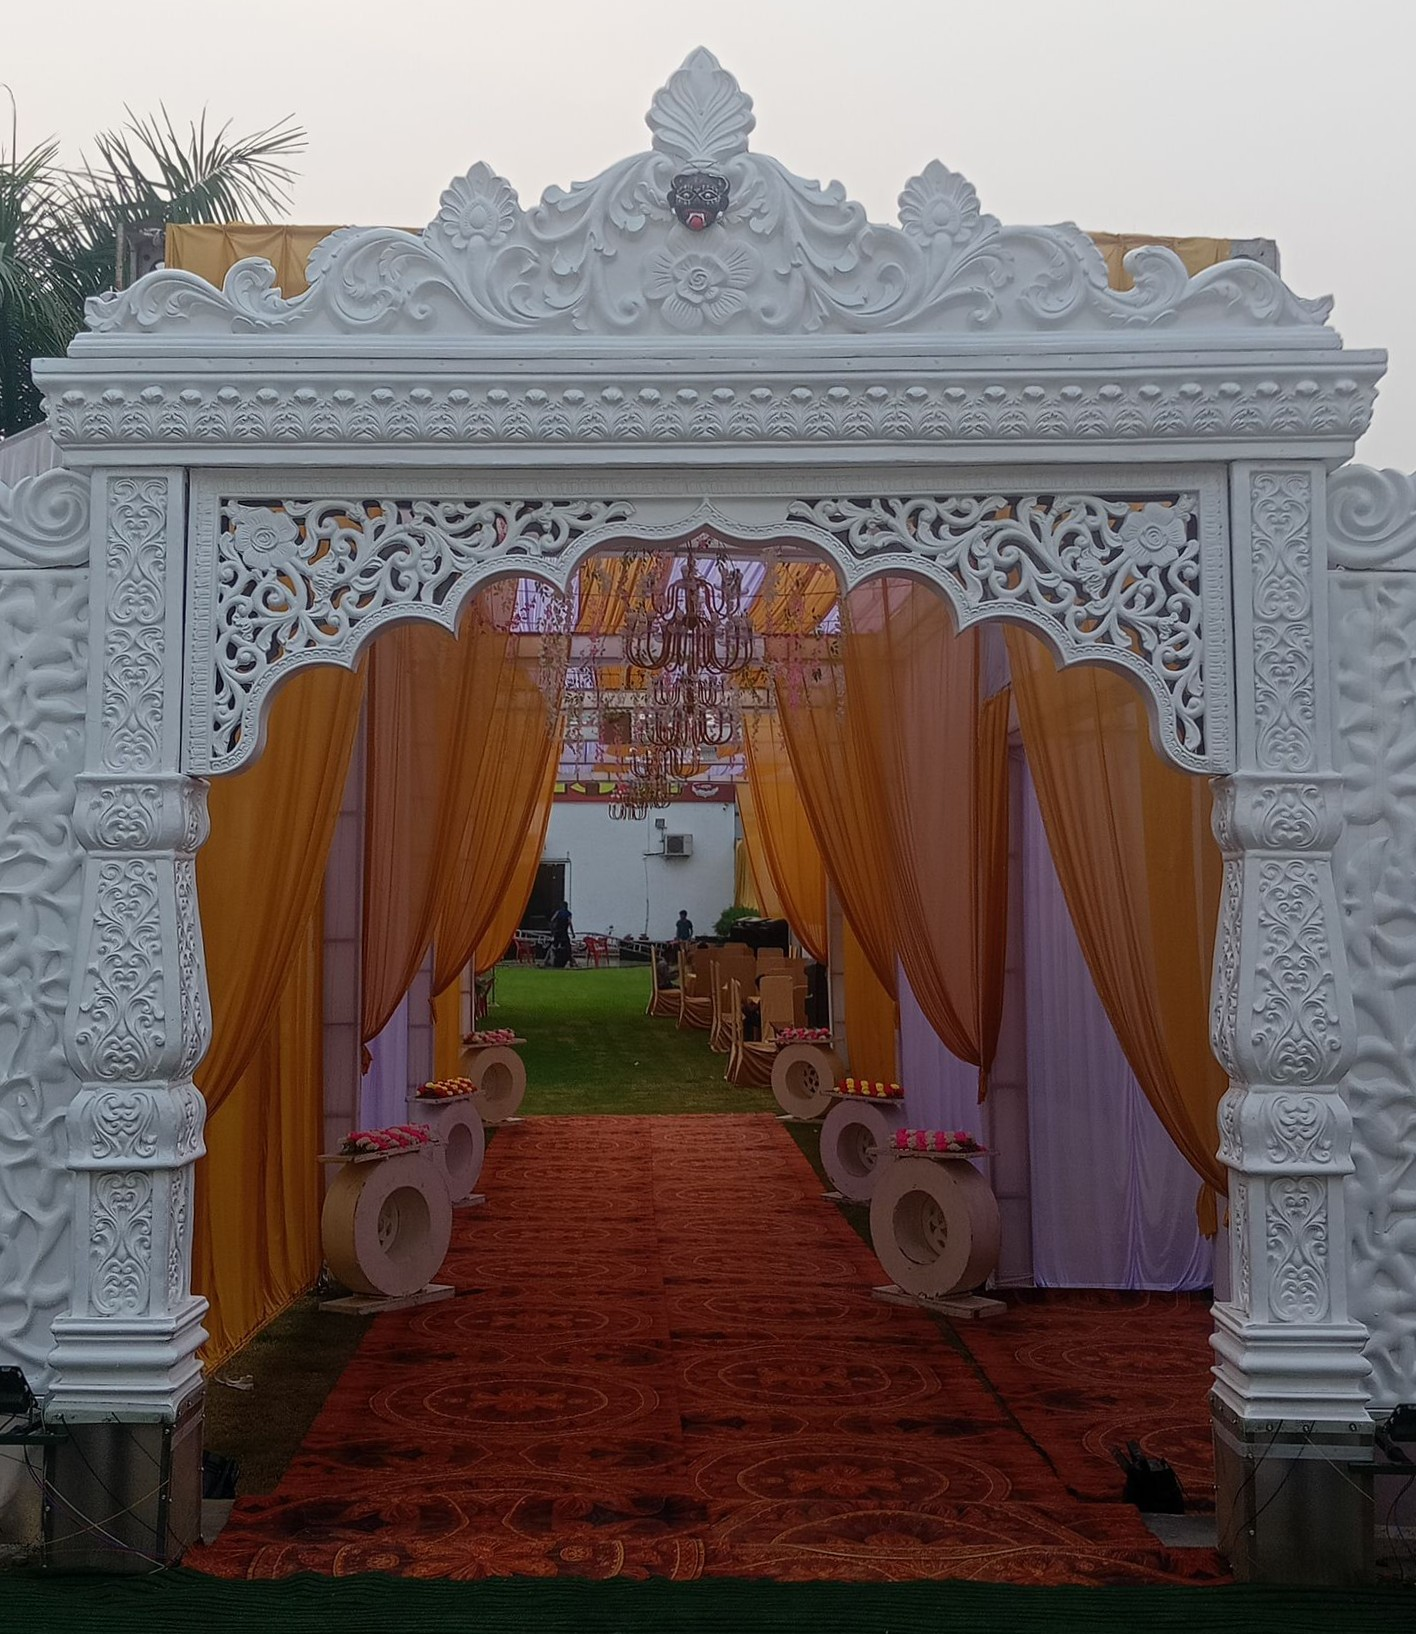
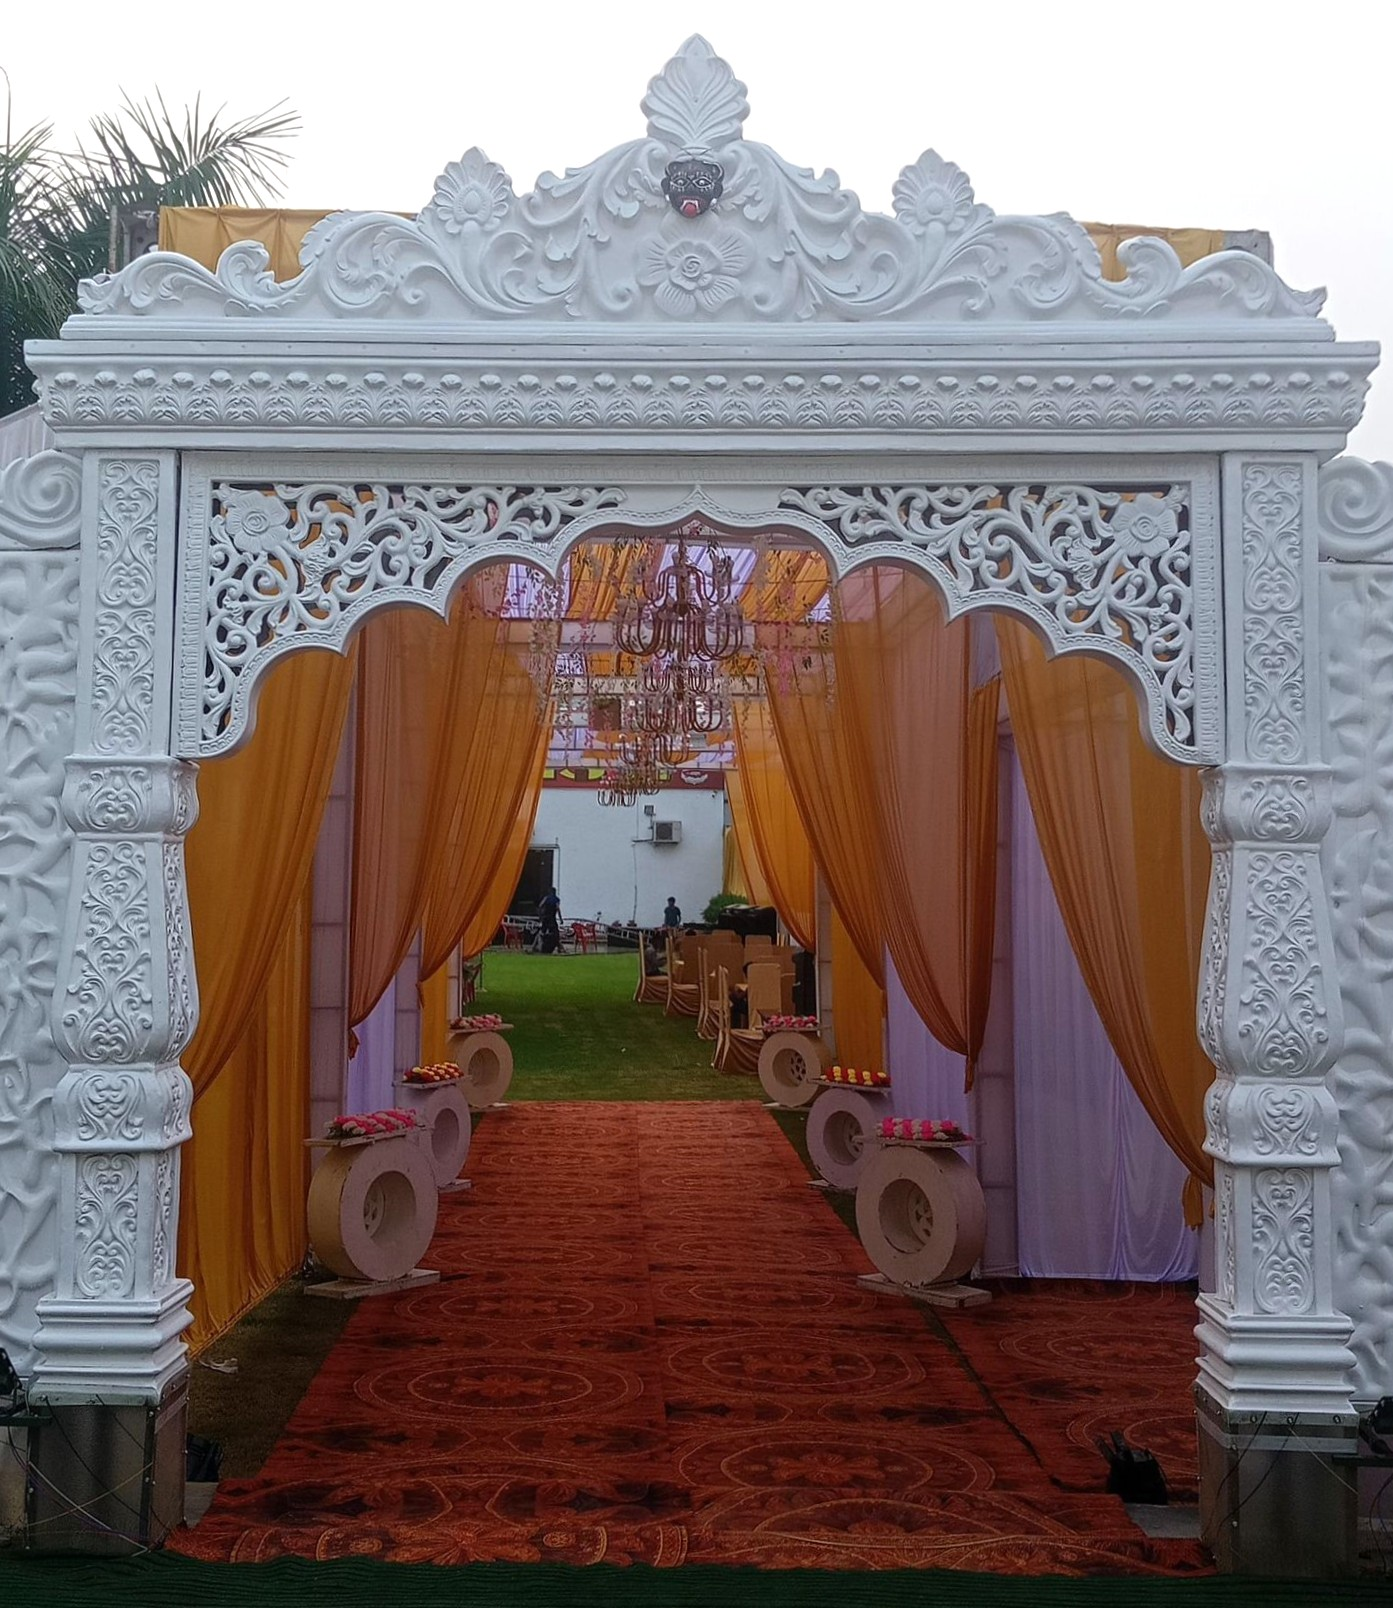
change in images

diff --git a/netlify/index.html b/netlify/index.html
@@ -128,8 +128,8 @@
 
       <div class="box8">
         <div class="g1">
-          <div class="g11" style="background-image: url('assets/img/entry51.jpeg');"></div>
-          <div class="g11" style="background-image: url('assets/img/sitting.jpeg');"></div>
+          <div class="g11" style="background-image: url('assets/img/entry5.jpg');"></div>
+          <div class="g11" style="background-image: url('assets/img/exit2.jpg');"></div>
           <div class="g11" style="background-image: url('assets/img/stage3.jpg');"></div>
         </div>
 
@@ -141,14 +141,14 @@
 
         <div class="g1">
           <div class="g11" style="background-image: url('assets/img/foodcorner.jpg');"></div>
-          <div class="g11" style="background-image: url('assets/img/hall_new.jpeg');"></div>
-          <div class="g11" style="background-image: url('assets/img/exit_new.jpeg');"></div>
+          <div class="g11" style="background-image: url('assets/img/hall.jpg');"></div>
+          <div class="g11" style="background-image: url('assets/img/exit.jpg');"></div>
         </div>
 
 
         <div class="g2">
-          <div class="g21" style="background-image: url('assets/img/entry51.jpeg');"></div>
-          <div class="g21" style="background-image: url('assets/img/sitting.jpeg');"></div>
+          <div class="g21" style="background-image: url('assets/img/entry5.jpg');"></div>
+          <div class="g21" style="background-image: url('assets/img/exit2.jpg');"></div>
         </div>
 
         <div class="g2">
@@ -158,7 +158,7 @@
 
         <div class="g2">
           <div class="g21" style="background-image: url('assets/img/foodcorner.jpg');"></div>
-          <div class="g21" style="background-image: url('assets/img/hall_new.jpeg');"></div>
+          <div class="g21" style="background-image: url('assets/img/hall.jpg');"></div>
         </div>
 
 

diff --git a/netlify/assets/css/style.css b/netlify/assets/css/style.css
@@ -171,7 +171,7 @@
     z-index: 2;
     top:-50px;
     margin-left: 300px;
-    background-image: url("../img/mandap_new.jpeg");
+    background-image: url("../img/mandap3.jpg");
     background-size: cover;
     text-shadow: 0 4px 10px rgba(0, 0, 0, 0.5);
     box-shadow: 0 0 20px 2px rgba(0, 0, 0, 0.3);
@@ -351,7 +351,6 @@
     height: 300px;
     width: 450px;
     background-size: cover;
-    background-position: center;
     border-radius: 1.2rem;
     margin-left: 5px;
     margin-right: 5px;
@@ -594,7 +593,6 @@ hr{
     z-index: 2;
     margin-left: 0px;
     margin-bottom: 10px;
-    background-position: center;
 }
 .box4{
     height: 270px;

diff --git a/netlify/assets/css/style1.css b/netlify/assets/css/style1.css
@@ -1,0 +1,29 @@
+ *{
+    margin:0;
+    font-family: Arial;
+    font-size: 14px;
+    border: border-box;   
+}
+.navbar{
+    height: 100px;
+    width: 100%;
+    background-color: rgba(169, 169, 169, 0.786);
+}
+.background{
+    background-image: url("logo2.png");
+    height:900px;
+    width: 90%;
+    background-size:cover;
+    border-top-left-radius: 35.5%;
+    border-top-right-radius: 35.5%;
+    margin-left: 70px;
+    margin-top: 50px;
+ }
+
+/* .logo{
+    background-image: url("logo.png");
+    height:100px;
+    width: 150px;
+    background-size: cover;
+    opacity: 1.5;
+}  */
